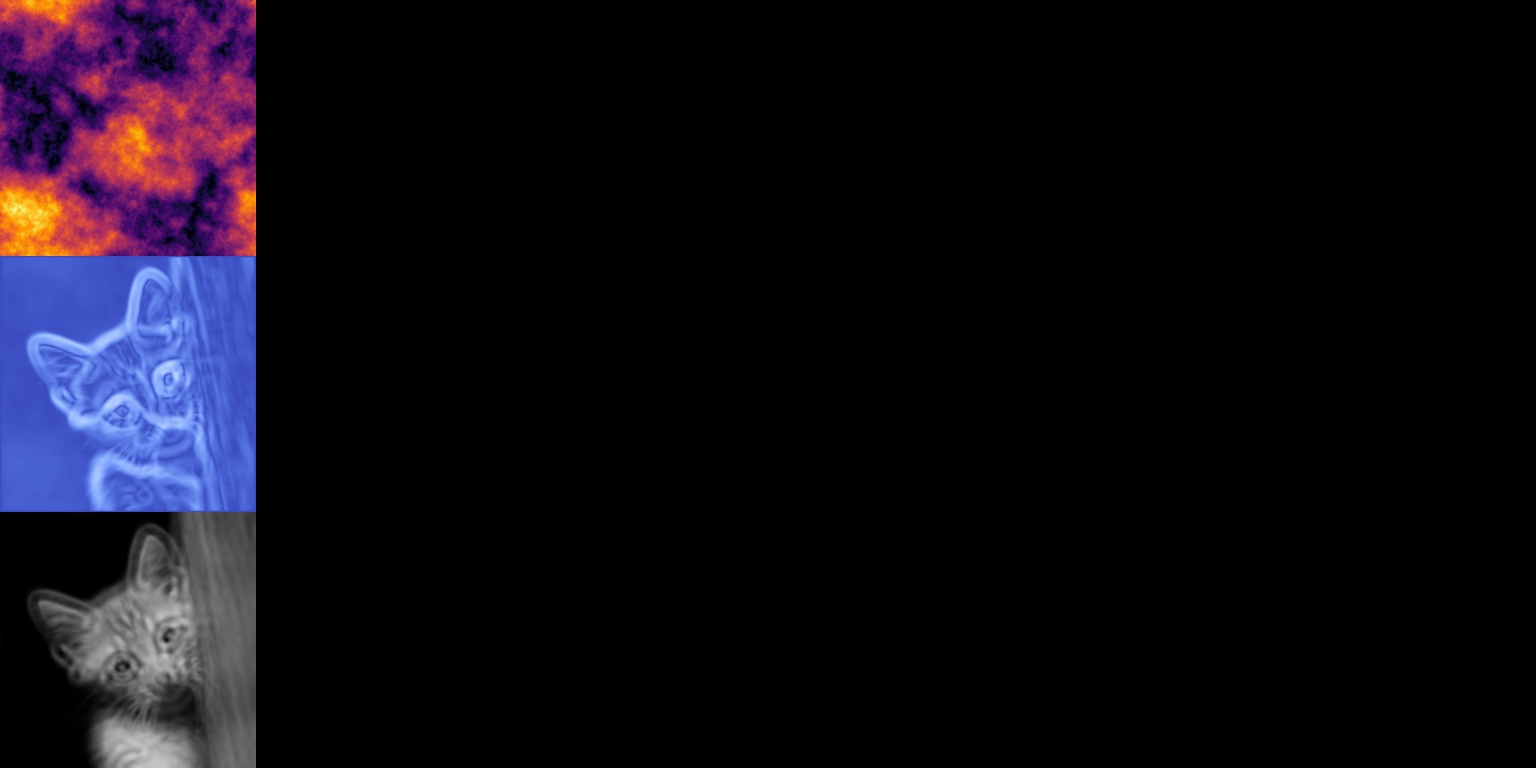
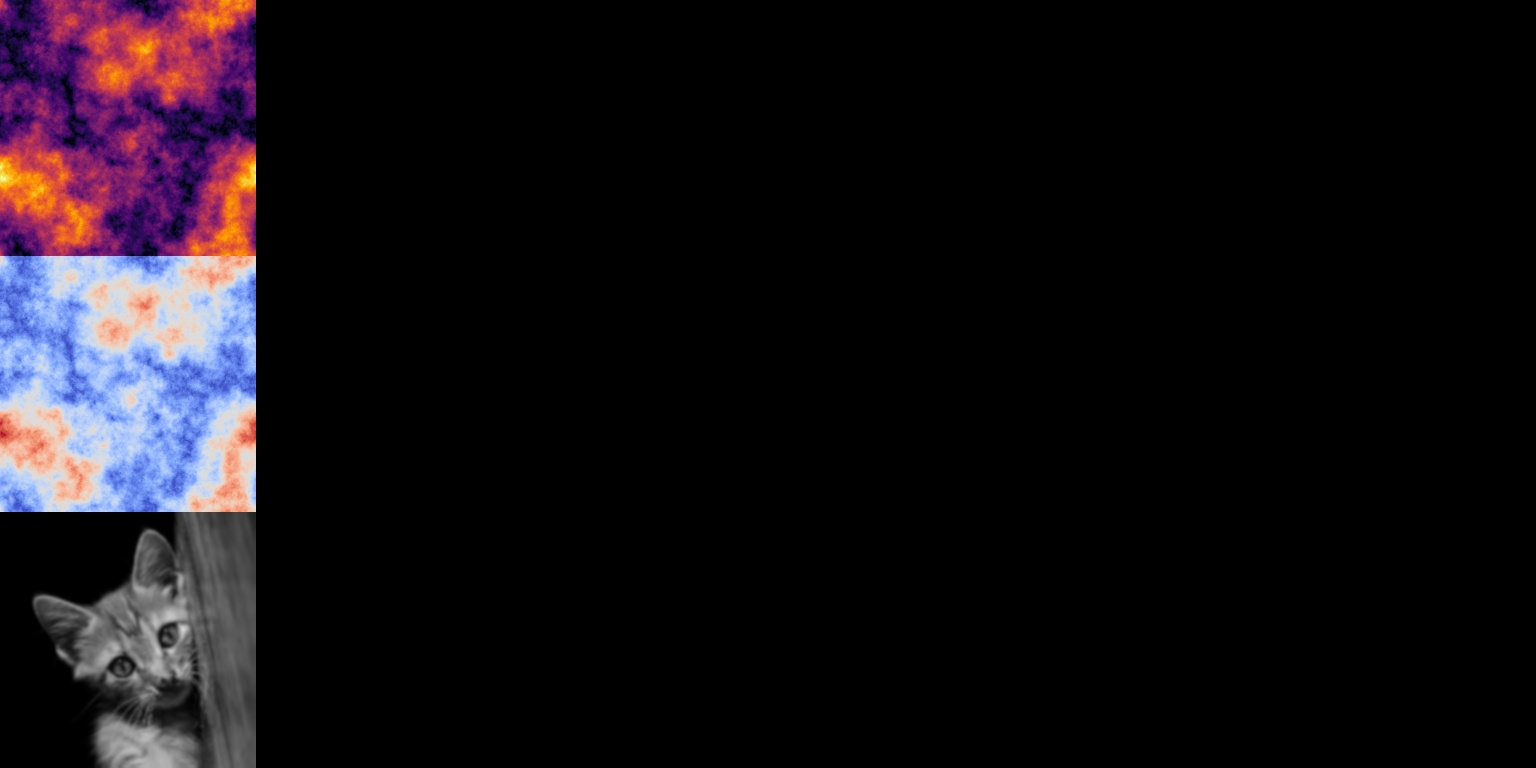
6_experiments

Changed region(s): [[0.0, 0.0, 0.1875, 1.0]]

diff --git a/numerical_solvers/visualization/CanvasPlotter.py b/numerical_solvers/visualization/CanvasPlotter.py
@@ -163,7 +163,8 @@ class CanvasPlotter:
 
     def render_vel_mag(self, vel):
         vel_mag = np.sqrt((vel[:, :, 0] ** 2 + vel[:, :, 1] ** 2))
-        vel_img = cm.ScalarMappable(norm=matplotlib.colors.Normalize(vmin=0.0, vmax=0.05), cmap="coolwarm").to_rgba(vel_mag)
+        # vel_img = cm.ScalarMappable(norm=matplotlib.colors.Normalize(vmin=0.0, vmax=0.05), cmap="coolwarm").to_rgba(vel_mag)
+        vel_img = cm.ScalarMappable(cmap="coolwarm").to_rgba(vel_mag)
         return vel_img
     
     def render_vel_energy_spectrum(self, vel):
@@ -346,14 +347,14 @@ class CanvasPlotter:
             v_distribution_rgba_x = self.dummy_canvas
 
         self.heatmap_energy_plotter.add_spectrum(vel_cpu[:, :, 0], vel_cpu[:, :, 1], self.solver.iterations_counter)
-        if self.is_heatmap_checked:
+        if self.is_heatmap_checked and not np.allclose(vel_cpu, np.zeros_like(vel_cpu)):
             
             heatmap_energy  = self.heatmap_energy_plotter.plot_heatmap_rgba()
         else:
             heatmap_energy = self.dummy_canvas
 
         self.heatmap_rho_plotter.add_spectrum(rho_cpu, np.zeros_like(rho_cpu), self.solver.iterations_counter)
-        if self.is_heatmap_checked:
+        if self.is_heatmap_checked and not np.allclose(rho_cpu, np.zeros_like(rho_cpu)):
             
             heatmap_rho = self.heatmap_rho_plotter.plot_heatmap_rgba()
         else:

diff --git a/numerical_solvers/runners/taichi_lbm_NS_picture_diffuser.py b/numerical_solvers/runners/taichi_lbm_NS_picture_diffuser.py
@@ -13,6 +13,7 @@ import matplotlib.pyplot as plt
 import taichi as ti
 import taichi.math as tm
 import itertools
+from pathlib import Path
 
 import cv2 # conda install conda-forge::opencv || pip install opencv-python
 
@@ -142,19 +143,7 @@ if __name__ == '__main__':
     ##########################################################################################################
 
     # solver.init(1.*np.ones(grid_size, dtype=np.float32))
-    # solver.create_ic_hill(.2, 1E-2, int(0.5*grid_size[0]), int(0.5*grid_size[1])) 
-    # solver.create_ic_hill(.05, 1E-3, int(0.25*grid_size[0]), int(0.25*grid_size[1]))
-    # solver.create_ic_hill(-.05, 1E-3,int(0.75*grid_size[0]), int(0.75*grid_size[1]))
-    
-    # for i in range(3):
-    #     subiterations = 100
-    #     solver.solve(subiterations)
-    #     rho_cpu = solver.rho.to_numpy()
-
-    #     os.makedirs("output", exist_ok=True)
-    #     matplotlib.use('TkAgg')
-    #     plt.imshow(rho_cpu, vmin=np_gray_image.min(), vmax=np_gray_image.max(), cmap="gist_gray", interpolation='none') 
-    #     plt.colorbar()
+    # solver.creatmin_init_gray_scalerbar()
     #     ax = plt.gca()
     #     ax.set_xlim([0, nx])
     #     ax.set_ylim([0, ny])

diff --git a/numerical_solvers/visualization/taichi_lbm_gui.py b/numerical_solvers/visualization/taichi_lbm_gui.py
@@ -48,6 +48,6 @@ def run_with_gui(solver: LBM_NS_Solver, np_init_gray_image, iter_per_frame, show
         
         window.show()
         
-        # if solver.iterations_counter % 500 ==0:
-        #     window.save_image(f'output/iteration_{solver.iterations_counter}.jpg')
+        if solver.iterations_counter % 1000 ==0:
+            canvasPlotter.write_canvas_to_file(img, f'output/iteration_{solver.iterations_counter}.jpg')
         

diff --git a/numerical_solvers/solvers/LBM_NS_Solver.py b/numerical_solvers/solvers/LBM_NS_Solver.py
@@ -19,6 +19,7 @@ class LBM_NS_Solver(LBM_SolverBase):
             
     def init(self, np_gray_image): 
         self.rho.from_numpy(np_gray_image)
+        # self.rho.fill(1.0)
         self.vel.fill(0)
         # u_spec, v_spec = self.spectralTurbulenceGenerator.generate_turbulence(0)     
         # force_numpy = np.stack((u_spec, v_spec), axis=-1)  # Shape becomes (128, 128, 2)

diff --git a/numerical_solvers/solvers/LBM_ADE_Solver.py b/numerical_solvers/solvers/LBM_ADE_Solver.py
@@ -18,6 +18,7 @@ class LBM_ADE_Solver(LBM_SolverBase):
             
     def init(self, np_gray_image): 
         self.rho.from_numpy(np_gray_image)
+        # self.rho.fill(1)
         self.vel.fill(0)
         # u_spec, v_spec = self.spectralTurbulenceGenerator.generate_turbulence(0)     
         # force_numpy = np.stack((u_spec, v_spec), axis=-1)  # Shape becomes (128, 128, 2)

diff --git a/configs/mnist/small_mnist_lbm_ade_config.py b/configs/mnist/small_mnist_lbm_ade_config.py
@@ -38,7 +38,7 @@ def get_config():
     solver.niu = 0.5 * 1/6
     solver.bulk_visc = 0.5 * 1/6
     solver.domain_size = (1.0, 1.0)
-    solver.turb_intensity = 1E-4
+    solver.turb_intensity =  1E-4
     solver.noise_limiter = (-1E-3, 1E-3)
     solver.dt_turb = 5 * 1E-4
     solver.k_min = 2.0 * torch.pi / min(solver.domain_size)

diff --git a/numerical_solvers/runners/taichi_lbm_ADE_picture_diffuser.py b/numerical_solvers/runners/taichi_lbm_ADE_picture_diffuser.py
@@ -101,7 +101,7 @@ if __name__ == '__main__':
 
     
     
-    run_with_gui(solver, np_gray_image, iter_per_frame=5)
+    run_with_gui(solver, np_gray_image, iter_per_frame=1)
 
 
 # %%
